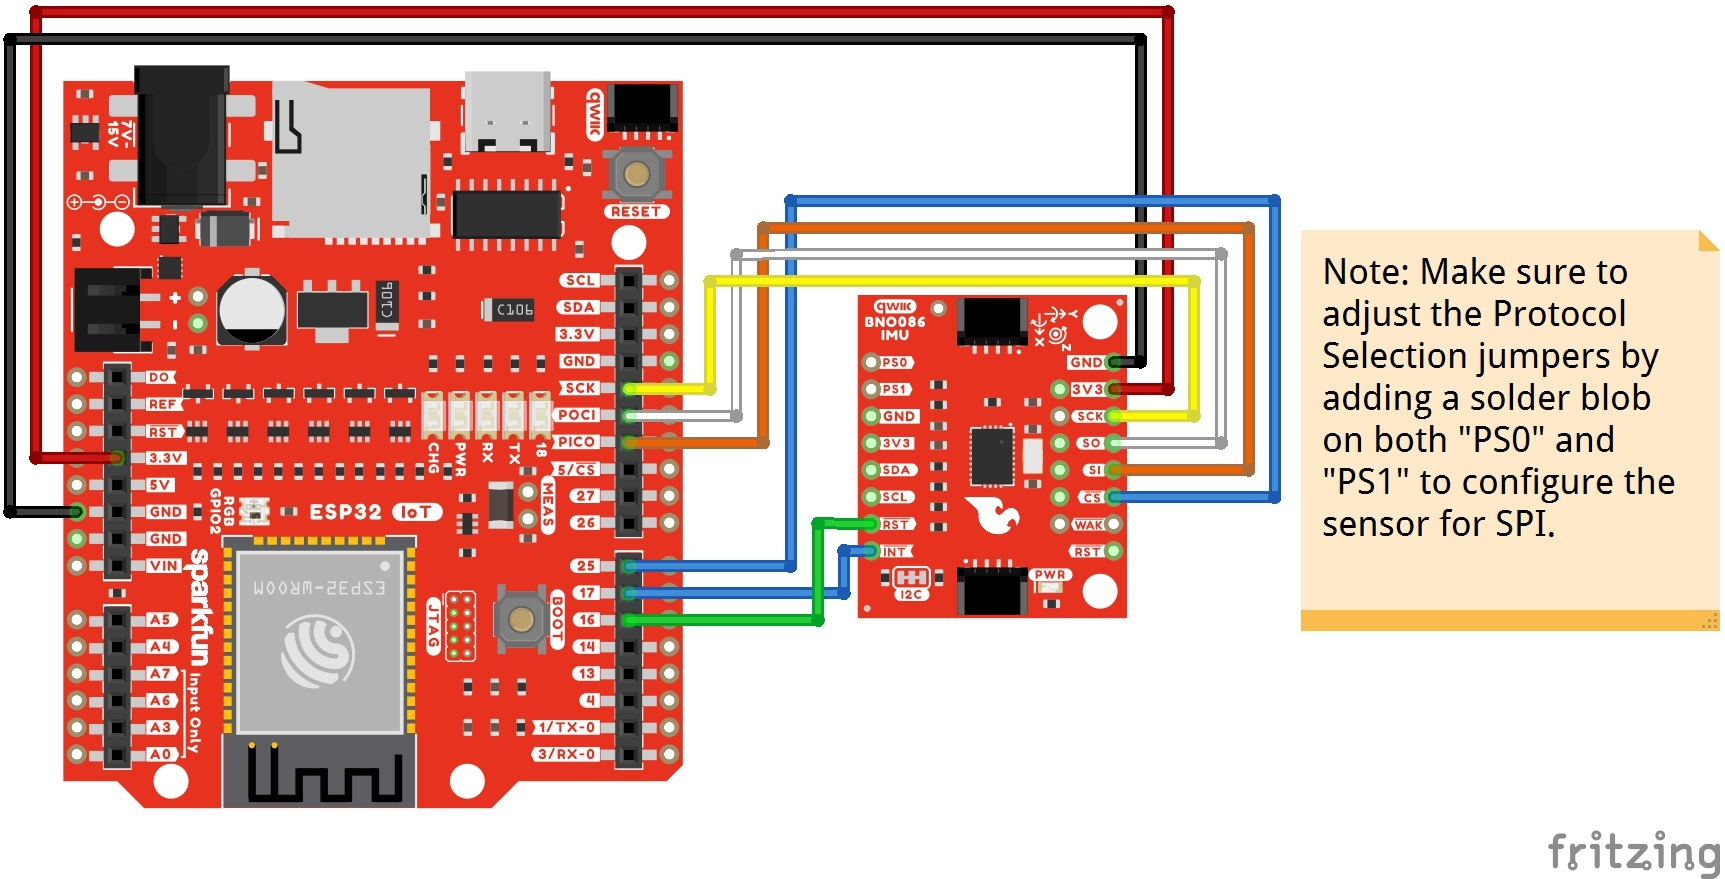
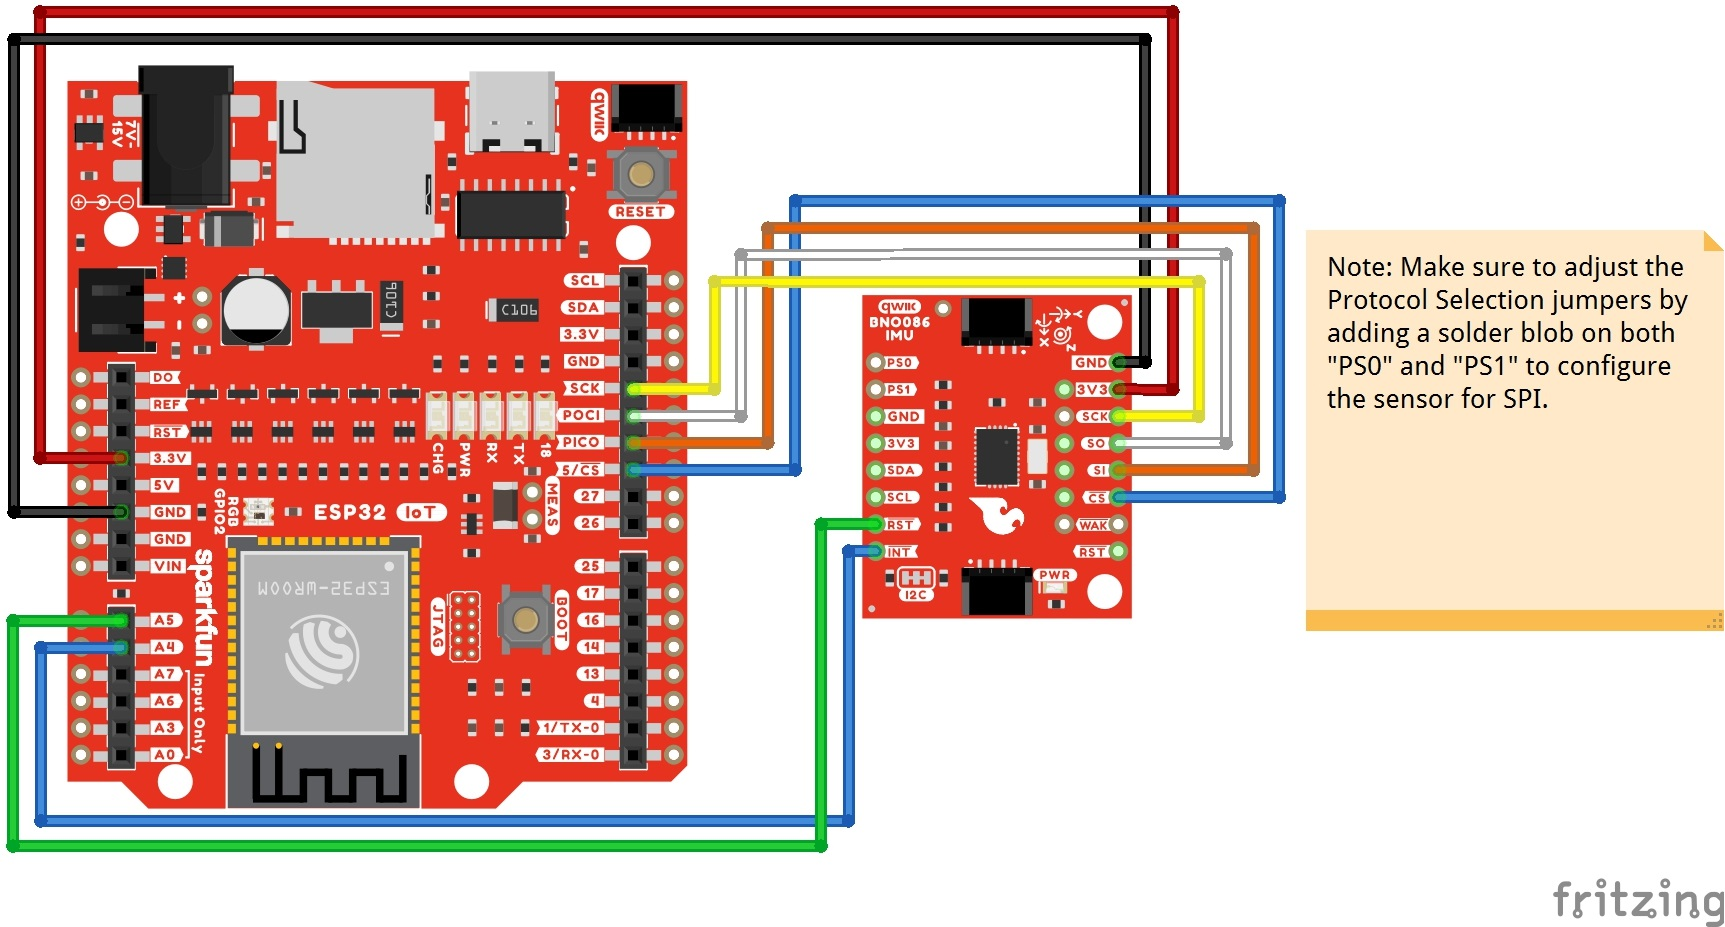
Update Tutorial to Reflect Changes for BNO086's Arduino Library v1.0.3

diff --git a/docs/hardware_hookup.md b/docs/hardware_hookup.md
@@ -1,26 +1,18 @@
-### Connecting via Qwiic
-
-
-Connecting to the BNO086 breakout is simple. You will just need a powerful microcontroller to process the data when using the BNO086 and a Qwiic cable. In this case, we used an ESP32 (we specifically tested the Arduino Library with the SparkFun IoT RedBoard - ESP32). Most of the basic examples in the Library will work in this configuration with the I<sup>2</sup>C protocol.
-
-<div style="text-align: center;">
-  <table>
-    <tr style="vertical-align:middle;">
-     <td style="text-align: center; vertical-align: middle;"><a href="../assets/img/22857-SEN_SparkFun_VR_IMU_Breakout-BNO086_Qwiic- 05.jpg"><img src="../assets/img/22857-SEN_SparkFun_VR_IMU_Breakout-BNO086_Qwiic- 05.jpg" height="600px" width="600px" alt="Basic Hookup with ESP32, Qwiic cable, and BNO086 Breakout"></a></td>
-    </tr>
-  </table>
-</div>
-
-!!!note
+!!! note
     Unfortunately, users are not able to use an Arduino Uno or RedBoard with an ATmega328P due the demands of the BNO086 IC. We recommend using the ESP32.
 
 
 
-### Connecting via Qwiic and the Reset & Interrupt Pins
+### Connecting via Qwiic Port, Reset, & Interrupt Pins
 
-For the advanced configuration examples (i.e. examples 17 and 18) that requires specific timing, you will need to wire up reset and interrupt pins. This can also be a more reliable connection when using the other examples as well. Just make sure to adjust the code similar to the example 17.
+!!! note
+    As of v1.0.3, you will need to wire up the reset and interrupt pins. Using only the I<sup>2</sup>C port was not sufficient enough to get the BNO086 to work reliably with a microcontroller.  
 
-The table and image below shows a connection with IC hooks connected. For a more secure connection, we recommending soldering to the connection. You can choose between a combination of [header pins and jumper wires](https://learn.sparkfun.com/tutorials/how-to-solder-through-hole-soldering/all), or [stripping wire and soldering the wire](https://learn.sparkfun.com/tutorials/working-with-wire/all) directly to the board.
+    The I/O pins have also been changed for the reset and interrupt pins! Make sure to adjust your connections accordingly.
+
+You will need a powerful micrcontroller to process the data when using the BNO086. In this case, we used an ESP32 (we specifically tested the Arduino Library with the SparkFun IoT RedBoard - ESP32). Besides connecting a Qwiic cable, you also need to wire up the reset and interrupt pins. This is a more reliable connection and is recommended.
+
+The table and image below shows the connections between the SparkFun IoT RedBoard - ESP32 and the BNO086. While you can use IC hooks for a temporary connection, we recommending soldering for a secure connection. You can choose between a combination of [header pins and jumper wires](https://learn.sparkfun.com/tutorials/how-to-solder-through-hole-soldering/all), or [stripping wire and soldering the wire](https://learn.sparkfun.com/tutorials/working-with-wire/all) directly to the board.
 
 <div class="grid cards col-4" markdown>
 
@@ -83,13 +75,13 @@ The table and image below shows a connection with IC hooks connected. For a more
             </td>
         </tr>    
         <tr>
-            <td style="text-align: center; border: solid 1px #cccccc;" bgcolor="#cce5ff"><font color="#000000">D17</font>
+            <td style="text-align: center; border: solid 1px #cccccc;" bgcolor="#cce5ff"><font color="#000000">A4</font>
             </td>
             <td style="text-align: center; border: solid 1px #cccccc;" bgcolor="#cce5ff"><font color="#000000">INT</font>
             </td>
         </tr>
         <tr>
-            <td style="text-align: center; border: solid 1px #cccccc;" bgcolor="#d4edda"><font color="#000000">D16</font>
+            <td style="text-align: center; border: solid 1px #cccccc;" bgcolor="#d4edda"><font color="#000000">A5</font>
             </td>
             <td style="text-align: center; border: solid 1px #cccccc;" bgcolor="#d4edda"><font color="#000000">RST</font>
             </td>
@@ -100,7 +92,7 @@ The table and image below shows a connection with IC hooks connected. For a more
 <div style="text-align: center;">
   <table>
     <tr style="vertical-align:middle;">
-     <td style="text-align: center; vertical-align: middle;"><a href="../assets/img/22857-SEN_SparkFun_VR_IMU_Breakout-BNO086_Qwiic- 06.jpg"><img src="../assets/img/22857-SEN_SparkFun_VR_IMU_Breakout-BNO086_Qwiic- 06.jpg" height="600px" width="600px" alt="Hookup with ESP32, Qwiic cable, IC Hooks, and BNO086 Breakoutfor Advanced Configuration"></a></td>
+     <td style="text-align: center; vertical-align: middle;"><a href="../assets/img/SparkFun_RedBoard_IoT_ESP32_BNO086_I2C_Hookup_bb.jpg"><img src="../assets/img/SparkFun_RedBoard_IoT_ESP32_BNO086_I2C_Hookup_bb.jpg" height="600px" width="600px" alt="Hookup with ESP32 between the BNO086 using the Qwiic Port, Interrupt, and Reset Pins"></a></td>
     </tr>
   </table>
 </div>
@@ -149,13 +141,13 @@ Before connecting, make sure to add a solder jumper on PS1 to configure the boar
             </td>
         </tr>
         <tr>
-            <td style="text-align: center; border: solid 1px #cccccc;" bgcolor="#f2dede">0
+            <td style="text-align: center; border: solid 1px #cccccc;" bgcolor="#f2dede"><font color="#000000">0</font>
             </td>
-            <td style="text-align: center; border: solid 1px #cccccc;" bgcolor="#f2dede">1
+            <td style="text-align: center; border: solid 1px #cccccc;" bgcolor="#f2dede"><font color="#000000">1</font>
             </td>
-            <td style="text-align: center; border: solid 1px #cccccc;" bgcolor="#f2dede">UART
+            <td style="text-align: center; border: solid 1px #cccccc;" bgcolor="#f2dede"><font color="#000000">UART</font>
             </td>
-            <td style="text-align: center; border: solid 1px #cccccc;" bgcolor="#f2dede">Add solder blob to the jumper to set to 1.
+            <td style="text-align: center; border: solid 1px #cccccc;" bgcolor="#f2dede"><font color="#000000">Add solder blob to the jumper to set to 1.</font>
             </td>
         </tr>
         <tr>
@@ -259,6 +251,9 @@ For users interested in using the [SPI protocol](https://learn.sparkfun.com/tuto
 
 Before connecting, make sure to add a solder jumper on PS0 and PS1 to configure the board for SPI protocol as stated earlier in the Hardware Overview.
 
+!!! note
+    As of v1.0.3, the I/O pins have also been changed for the CS, reset, interrupt pins! Make sure to adjust your connections accordingly.
+
 <div style="text-align: center;">
     <table>
         <tr>
@@ -302,13 +297,13 @@ Before connecting, make sure to add a solder jumper on PS0 and PS1 to configure 
             </td>
         </tr>
         <tr>
-            <td style="text-align: center; border: solid 1px #cccccc;" bgcolor="#f2dede">1
+            <td style="text-align: center; border: solid 1px #cccccc;" bgcolor="#f2dede"><font color="#000000">1</font>
             </td>
-            <td style="text-align: center; border: solid 1px #cccccc;" bgcolor="#f2dede">1
+            <td style="text-align: center; border: solid 1px #cccccc;" bgcolor="#f2dede"><font color="#000000">1</font>
             </td>
-            <td style="text-align: center; border: solid 1px #cccccc; "bgcolor="#f2dede">SPI
+            <td style="text-align: center; border: solid 1px #cccccc; "bgcolor="#f2dede"><font color="#000000">SPI</font>
             </td>
-            <td style="text-align: center; border: solid 1px #cccccc;" bgcolor="#f2dede">Add solder blob to the jumpers to set to 1.
+            <td style="text-align: center; border: solid 1px #cccccc;" bgcolor="#f2dede"><font color="#000000">Add solder blob to the jumpers to set to 1.</font>
             </td>
         </tr>
     </table>
@@ -337,7 +332,7 @@ The table below shows how to connect the SparkFun IoT RedBoard - ESP32 to the VR
             </td>
         </tr>
         <tr>
-            <td style="text-align: center; border: solid 1px #cccccc;" bgcolor="#cce5ff"><font color="#000000">D25</font>
+            <td style="text-align: center; border: solid 1px #cccccc;" bgcolor="#cce5ff"><font color="#000000">D5</font>
             </td>
             <td style="text-align: center; border: solid 1px #cccccc;" bgcolor="#cce5ff"><font color="#000000">CS</font>
             </td>
@@ -361,13 +356,13 @@ The table below shows how to connect the SparkFun IoT RedBoard - ESP32 to the VR
             </td>
         </tr>    
         <tr>
-            <td style="text-align: center; border: solid 1px #cccccc;" bgcolor="#cce5ff"><font color="#000000">D17</font>
+            <td style="text-align: center; border: solid 1px #cccccc;" bgcolor="#cce5ff"><font color="#000000">A4</font>
             </td>
             <td style="text-align: center; border: solid 1px #cccccc;" bgcolor="#cce5ff"><font color="#000000">INT</font>
             </td>
         </tr>
         <tr>
-            <td style="text-align: center; border: solid 1px #cccccc;" bgcolor="#d4edda"><font color="#000000">D16</font>
+            <td style="text-align: center; border: solid 1px #cccccc;" bgcolor="#d4edda"><font color="#000000">A5</font>
             </td>
             <td style="text-align: center; border: solid 1px #cccccc;" bgcolor="#d4edda"><font color="#000000">RST</font>
             </td>

diff --git a/docs/arduino_examples.md b/docs/arduino_examples.md
@@ -228,8 +228,30 @@ This example shows us how to configure the sensor on different addresses and I<s
             <td style="text-align: center; border: solid 1px #cccccc;" bgcolor="#cce5ff"><font color="#000000">SDA</font>
             </td>
         </tr>    
+        <tr>
+            <td style="text-align: center; border: solid 1px #cccccc;" bgcolor="#cce5ff"><font color="#000000">A4</font>
+            </td>
+            <td style="text-align: center; border: solid 1px #cccccc;" bgcolor="#cce5ff"><font color="#000000">INT</font>
+            </td>
+        </tr>
+        <tr>
+            <td style="text-align: center; border: solid 1px #cccccc;" bgcolor="#d4edda"><font color="#000000">A5</font>
+            </td>
+            <td style="text-align: center; border: solid 1px #cccccc;" bgcolor="#d4edda"><font color="#000000">RST</font>
+            </td>
+        </tr>    
     </table>
 </div>
+
+<div style="text-align: center;">
+  <table>
+    <tr style="vertical-align:middle;">
+     <td style="text-align: center; vertical-align: middle;"><a href="../assets/img/SparkFun_RedBoard_IoT_ESP32_BNO086_ALT_I2C_Hookup_bb.jpg"><img src="../assets/img/SparkFun_RedBoard_IoT_ESP32_BNO086_ALT_I2C_Hookup_bb.jpg" height="600px" width="600px" alt="Hookup with ESP32 between the BNO086 using the Alternative I2C Port, Interrupt, and Reset Pins"></a></td>
+    </tr>
+  </table>
+</div>
+
+
 
 Open the example by navigating to **File** > **Examples** > **SparkFun BNO08X Cortex Based IMU** > **Example_08_AdvancedConfig**.
 

diff --git a/docs/introduction.md b/docs/introduction.md
@@ -128,7 +128,7 @@ To follow along with this tutorial, you will need the following materials. You m
 
 ### Tools
 
-For a secure connection when using the advanced configuration, you will need to solder two wires between your microcontroller and the breakout board. This requires some assembly and soldering. You may already have a few of these items but if not, the tools and hardware below help with that assembly.
+For a secure connection when connecting to the reset and interrupt pins, you will need to solder two wires between your microcontroller and the breakout board. This requires some assembly and soldering. You may already have a few of these items but if not, the tools and hardware below help with that assembly.
 
 * [Hook-Up Wire - Assortment (Stranded, 22 AWG) [PRT-11375]](https://www.sparkfun.com/products/11375)
 * [Wire Stripper - 20-30 AWG Solid (22-32 AWG Stranded) [TOL-22263]](https://www.sparkfun.com/products/22263)
